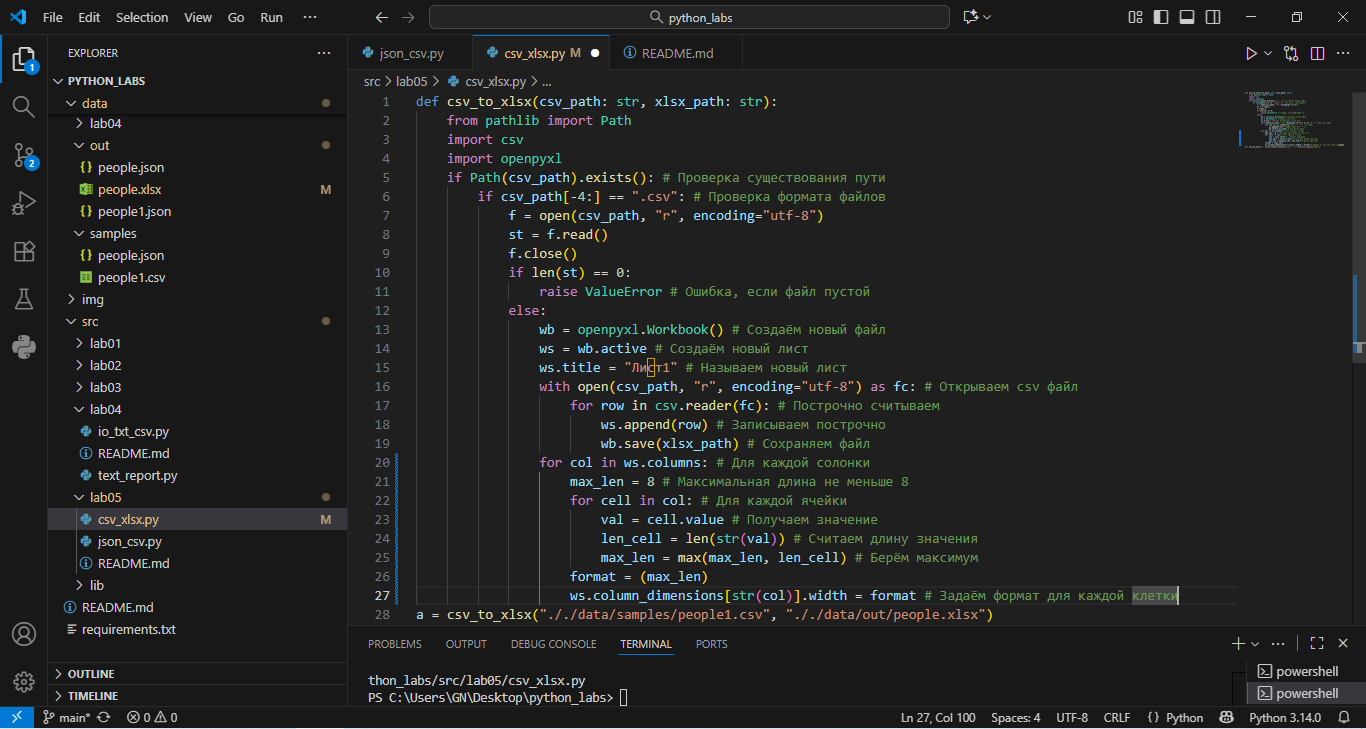
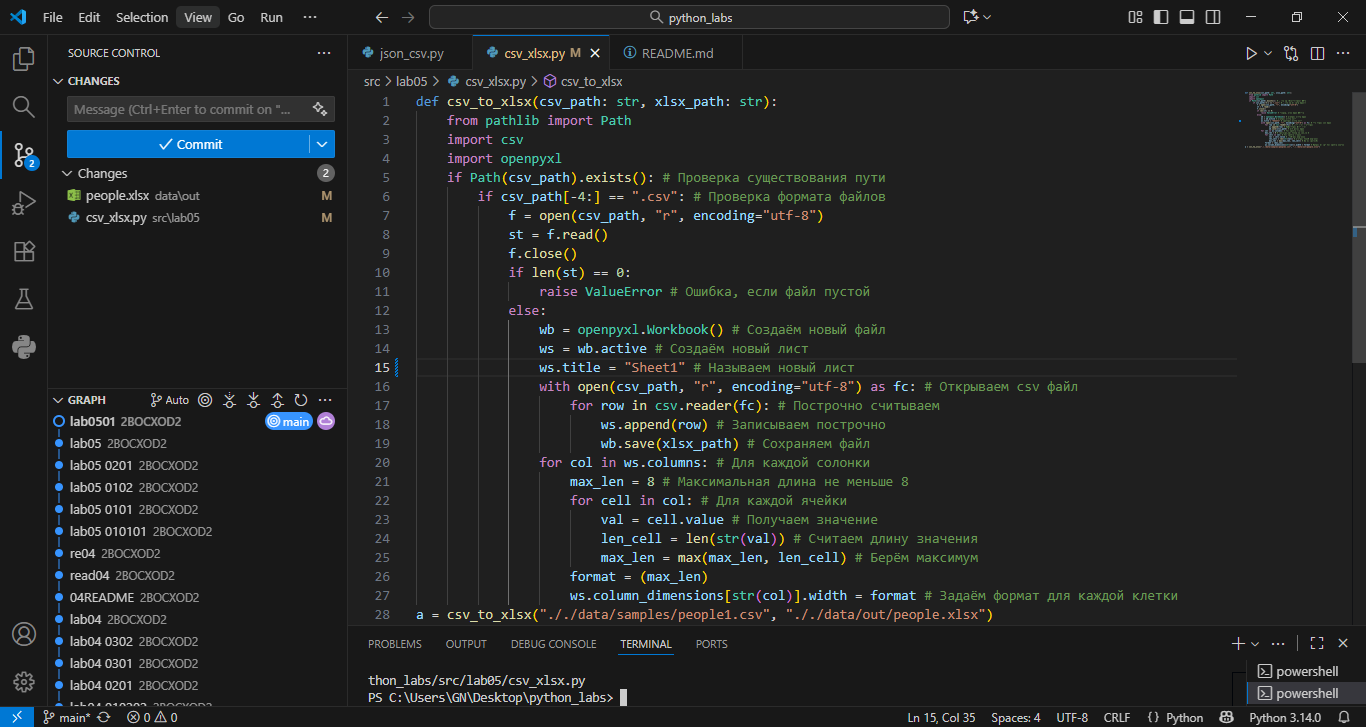
lab0502

diff --git a/src/lab05/csv_xlsx.py b/src/lab05/csv_xlsx.py
@@ -12,7 +12,7 @@ def csv_to_xlsx(csv_path: str, xlsx_path: str):
             else:
                 wb = openpyxl.Workbook() # Создаём новый файл
                 ws = wb.active # Создаём новый лист
-                ws.title = "Лист1" # Называем новый лист
+                ws.title = "Sheet1" # Называем новый лист
                 with open(csv_path, "r", encoding="utf-8") as fc: # Открываем csv файл
                     for row in csv.reader(fc): # Построчно считываем
                         ws.append(row) # Записываем построчно
